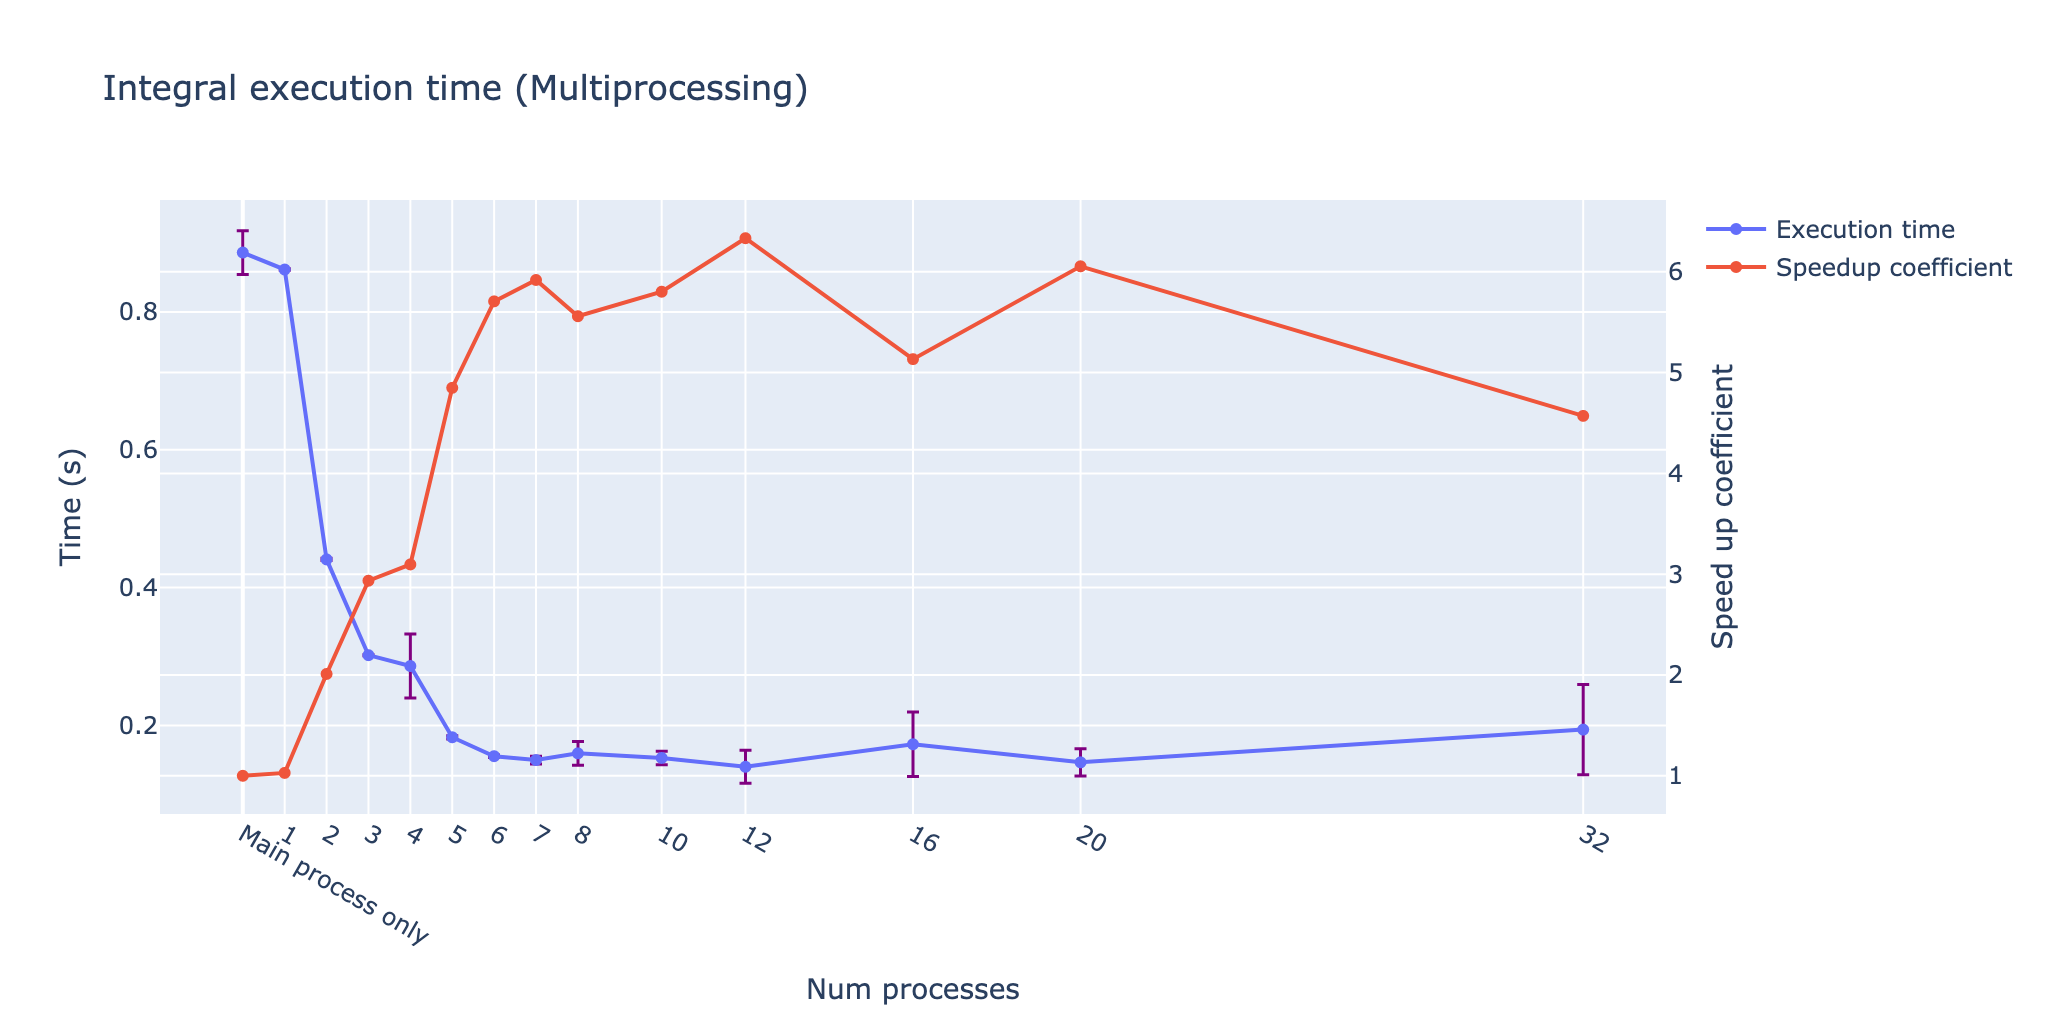
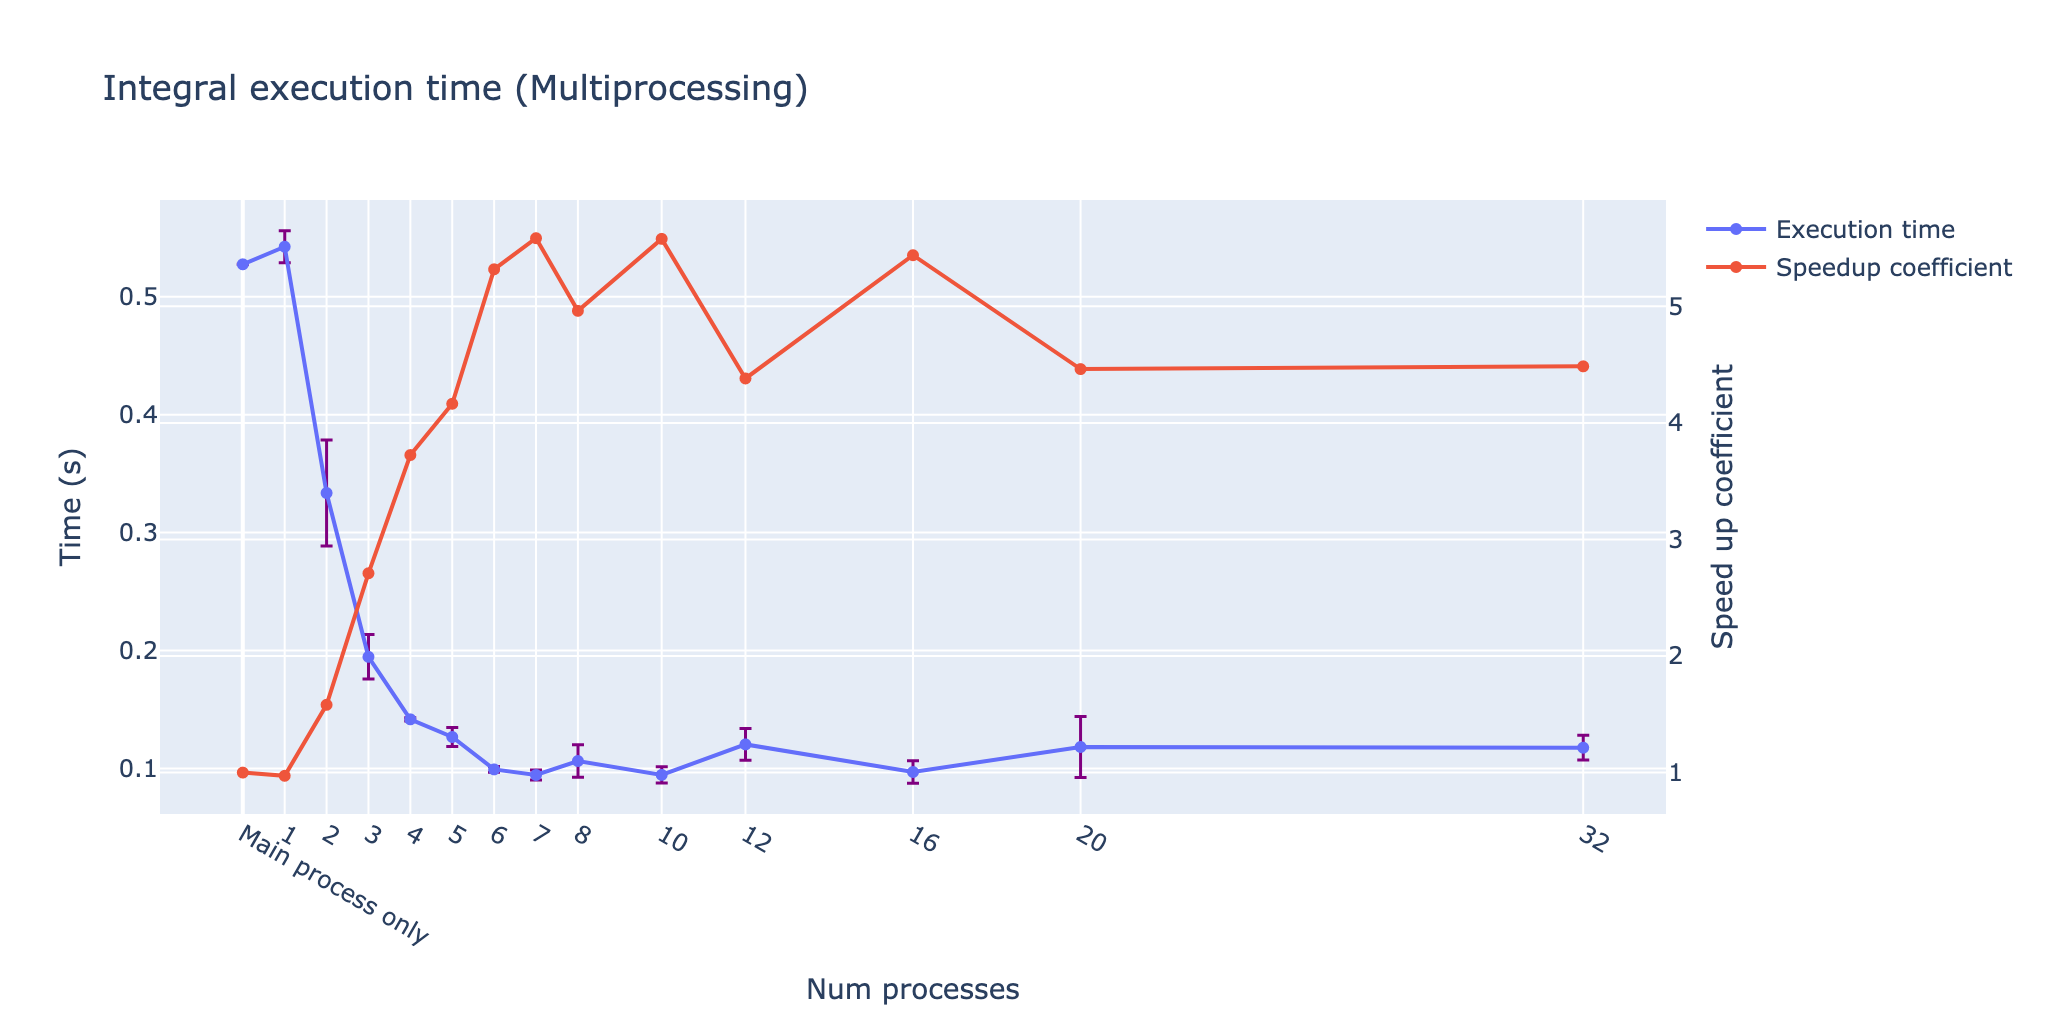
-- hw6 add picture of function

diff --git a/hw6/main.py b/hw6/main.py
@@ -21,6 +21,18 @@ BASE_OUT_FOLDER = os.path.join(root_path, 'hw6', 'out')
 NUM_PROCESSES = [1, 2, 3, 4, 5, 6, 7, 8, 10, 12, 16, 20, 32]
 
 
+def plot_function():
+    x = np.linspace(A, B, N)
+    y = FUNC(x)
+    fig = go.Figure([
+        go.Scatter(
+            x=x, y=y
+        ),
+    ], layout_title='Function: y = x ** 2 + 10 + sin(x) * 5')
+    fig.write_image(os.path.join(BASE_OUT_FOLDER, f'function.png'),
+                    **DEFAULT_PNG_ARGS)
+
+
 def collect_results():
     files = glob(os.path.join(BASE_OUT_FOLDER, '*result*.csv'))
     all_dfs = []
@@ -98,33 +110,35 @@ def collect_results():
 
 
 if __name__ == "__main__":
-    # os.makedirs(BASE_OUT_FOLDER, exist_ok=True)
-    # single_process_result = intergral(FUNC, A, B, N)
-    # single_process_time = timeit.repeat(lambda:
-    #                                     intergral(FUNC, A, B, N),
-    #                                     number=1, repeat=4)
-    # single_process_res_dict = {'method': 'single_process',
-    #                            'time_mean': float(np.mean(single_process_time)),
-    #                            'time_std': float(np.std(single_process_time)),
-    #                            'result': single_process_result}
-    #
-    # library_integral, _ = quad(FUNC, A, B)
-    # library_time = timeit.repeat(lambda: quad(FUNC, A, B), number=1, repeat=4)
-    # library_res_dict = {'method': 'library',
-    #                     'time_mean': float(np.mean(library_time)),
-    #                     'time_std': float(np.std(library_time)),
-    #                     'result': library_integral}
-    #
-    # df = pd.DataFrame([
-    #     single_process_res_dict, library_res_dict
-    # ], index=None)
-    # df.to_csv(
-    #     os.path.join(
-    #         BASE_OUT_FOLDER, 'result_main_process.csv'
-    #     ), index=None
-    # )
-    #
-    # for num_process in tqdm(NUM_PROCESSES):
-    #     subprocess.run(["mpirun", "-n", str(num_process), "python", "hw6/mpi_integral.py"])
+    os.makedirs(BASE_OUT_FOLDER, exist_ok=True)
+    plot_function()
+    single_process_result = intergral(FUNC, A, B, N)
+    single_process_time = timeit.repeat(lambda:
+                                        intergral(FUNC, A, B, N),
+                                        number=1, repeat=4)
+    single_process_res_dict = {'method': 'single_process',
+                               'time_mean': float(np.mean(single_process_time)),
+                               'time_std': float(np.std(single_process_time)),
+                               'result': single_process_result}
+
+    library_integral, _ = quad(FUNC, A, B)
+    library_time = timeit.repeat(lambda: quad(FUNC, A, B), number=1, repeat=4)
+    library_res_dict = {'method': 'library',
+                        'time_mean': float(np.mean(library_time)),
+                        'time_std': float(np.std(library_time)),
+                        'result': library_integral}
+
+    df = pd.DataFrame([
+        single_process_res_dict, library_res_dict
+    ], index=None)
+
+    df.to_csv(
+        os.path.join(
+            BASE_OUT_FOLDER, 'result_main_process.csv'
+        ), index=None
+    )
+
+    for num_process in tqdm(NUM_PROCESSES):
+        subprocess.run(["mpirun", "-n", str(num_process), "python", "hw6/mpi_integral.py"])
 
     collect_results()

diff --git a/hw6/integral.py b/hw6/integral.py
@@ -1,12 +1,12 @@
 import numpy as np
 
-A = 1.
-B = 2.
+A = -2
+B = 2
 N = 10 ** 6
 
 
 def FUNC(x):
-    return x ** 2 - np.log(np.sin(x)) + 0.3
+    return x ** 2 + 10 + np.sin(x) * 5
 
 
 def intergral(func, a: float, b: float, n: int):

diff --git a/hw6/README.MD b/hw6/README.MD
@@ -10,6 +10,10 @@ My PC has 6+2 cores:
 
 <img src="pc_spec.png">
 
+Function:
+
+<img src="out/function.png" width=1024 height=512>
+
 Integral Speedup:
 
 <img src="out/speed_up_vs_process.png" width=1024 height=512>
